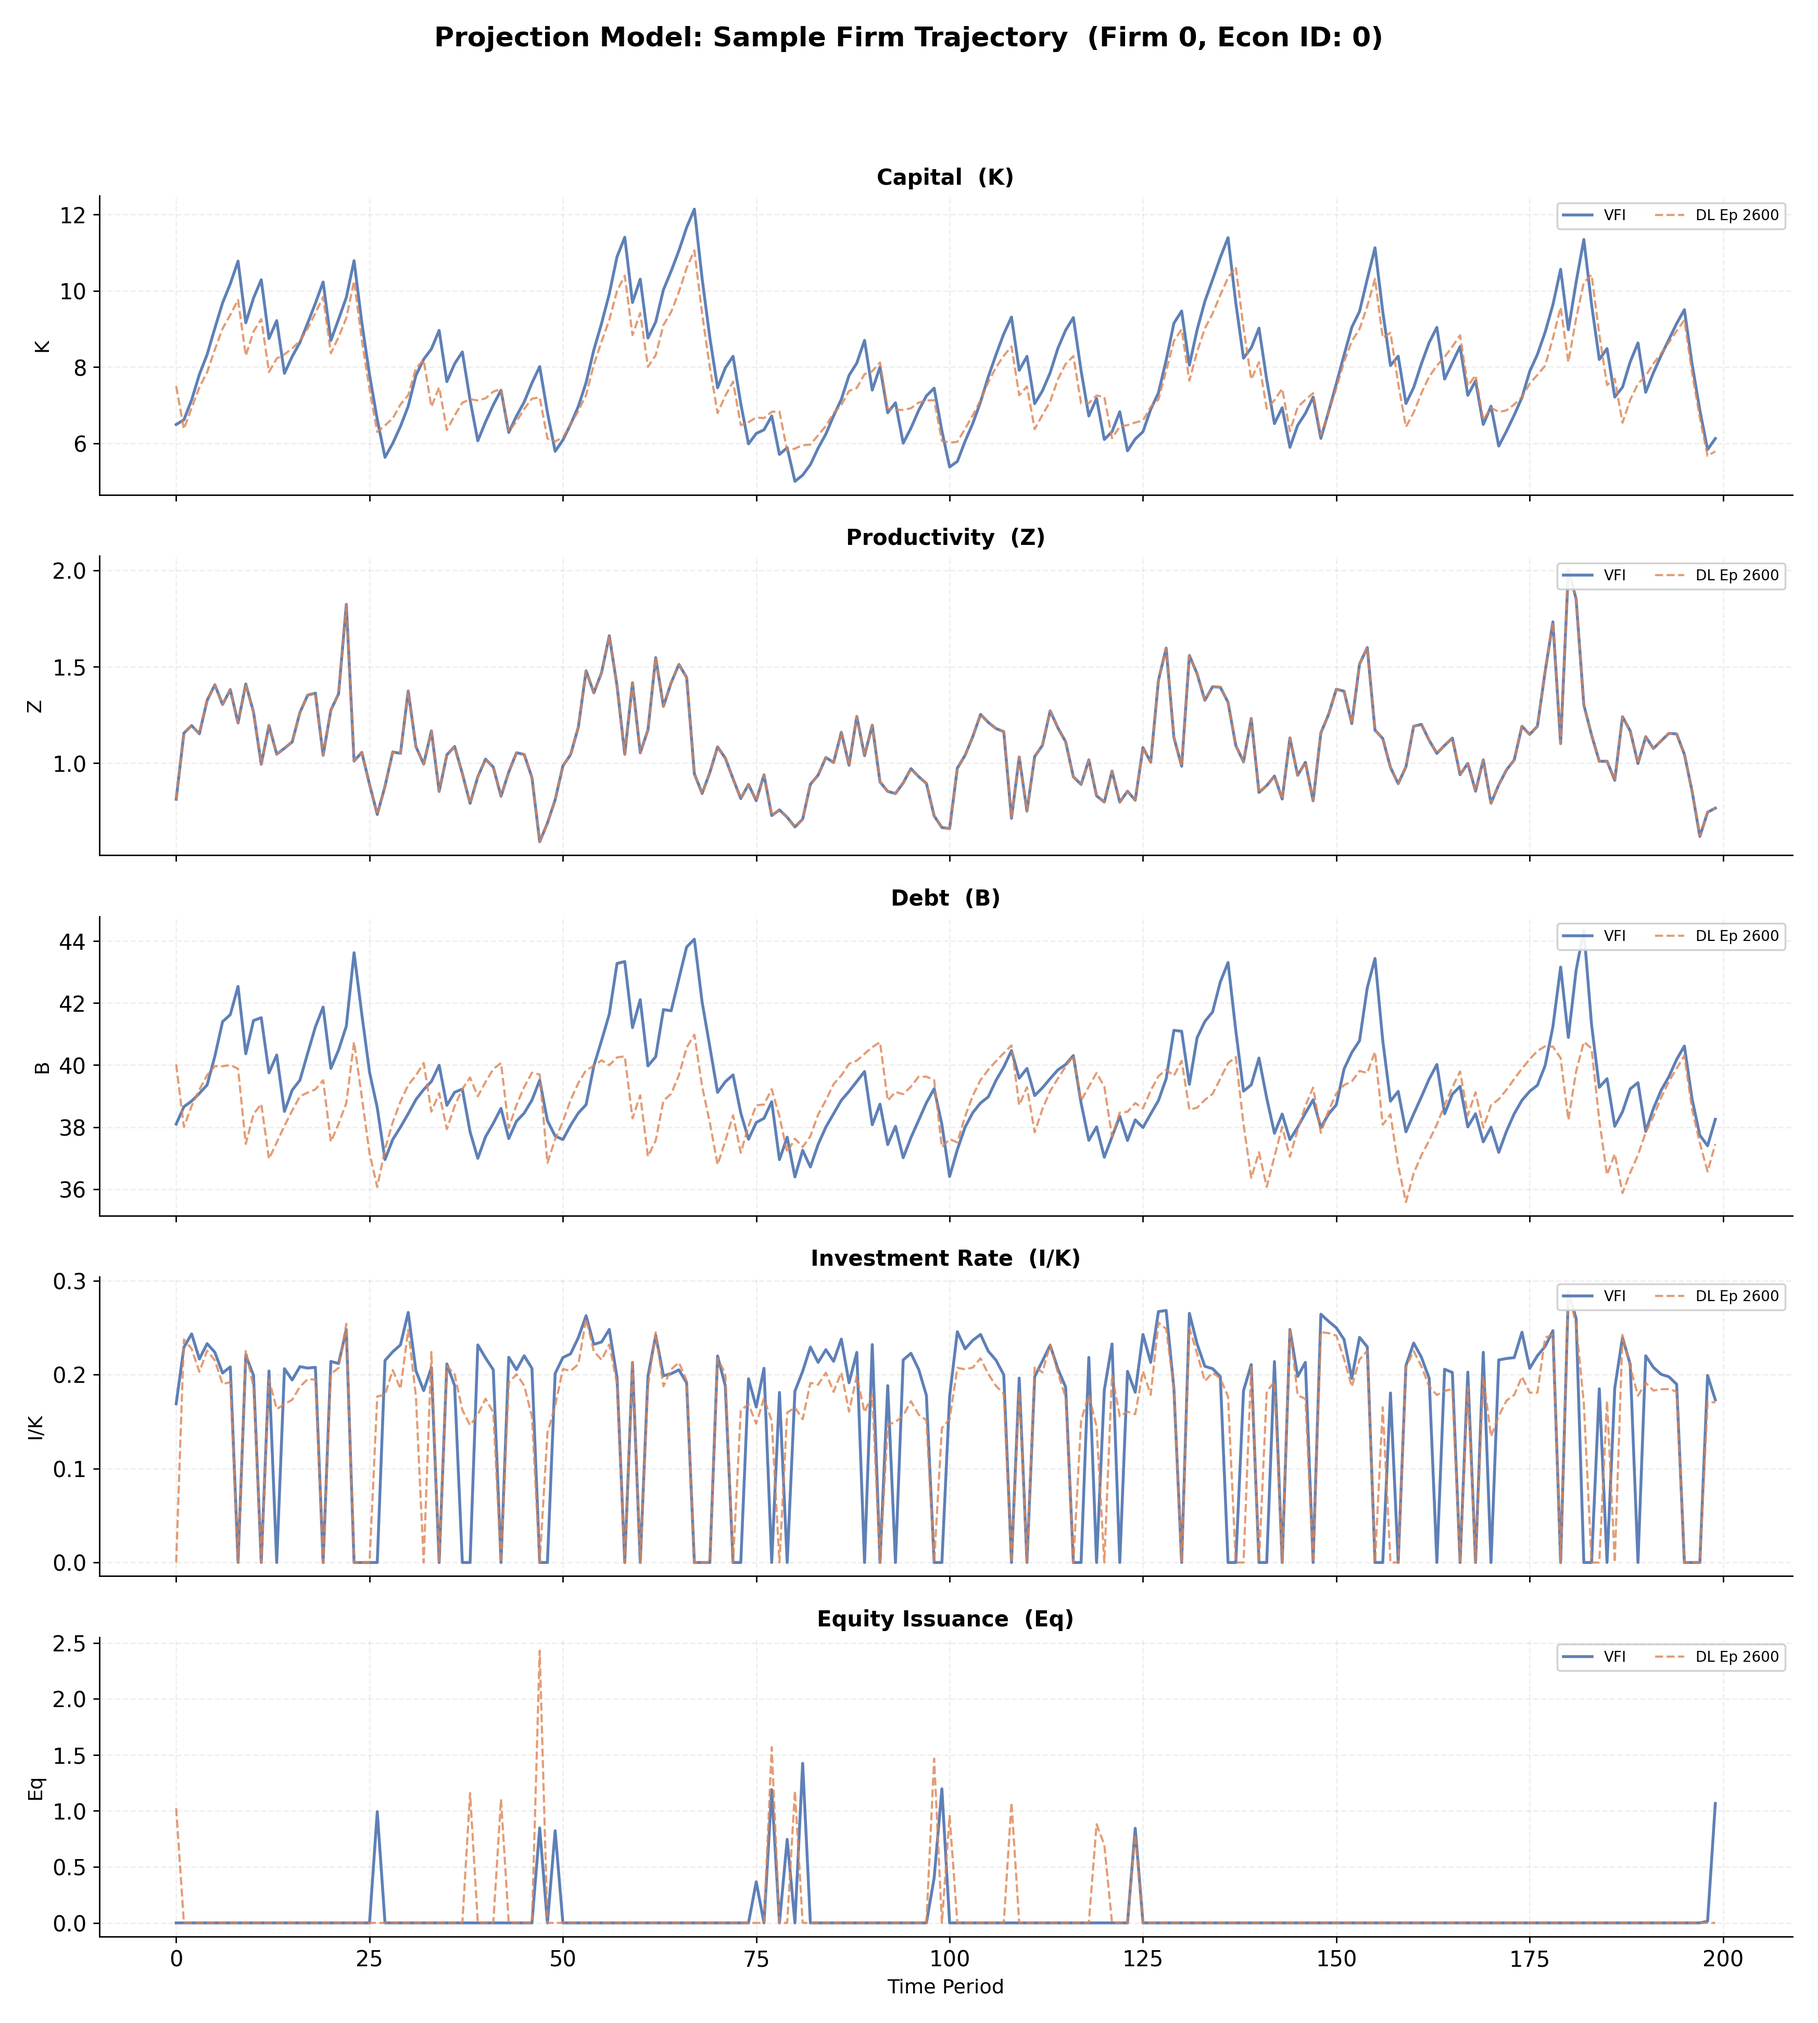
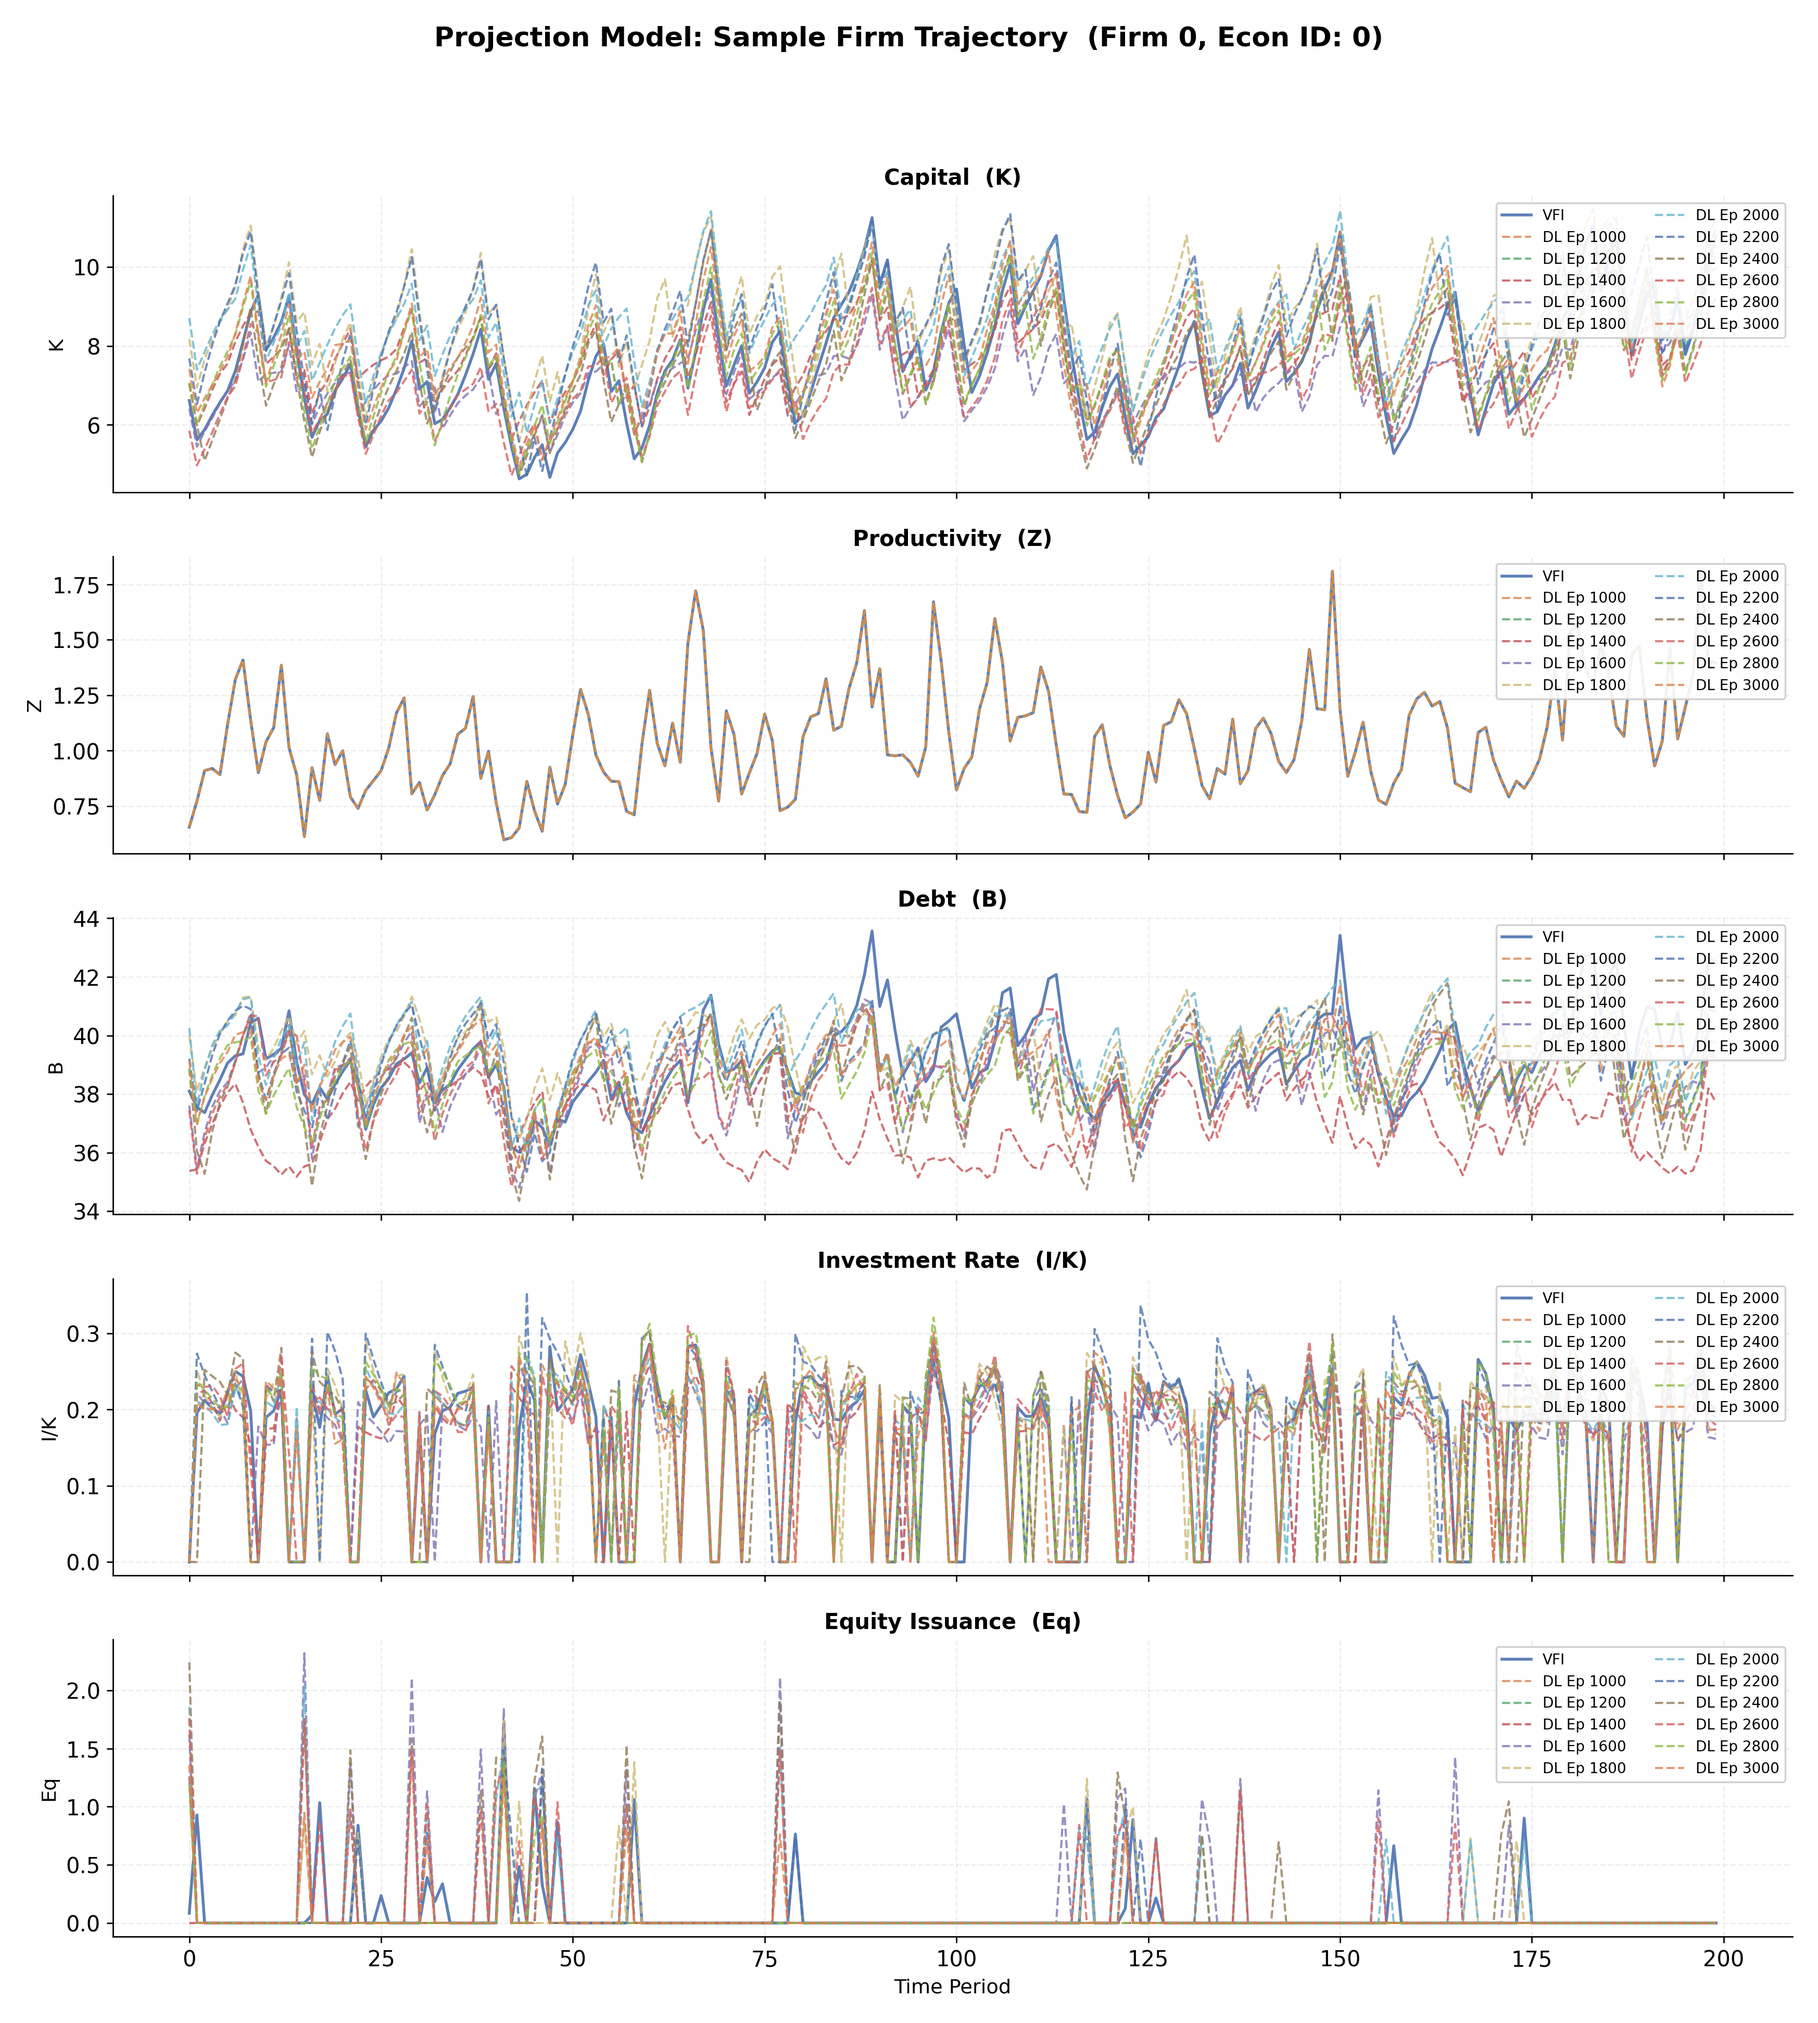
modify

diff --git a/src/econ_models/dl/risky_projection.py b/src/econ_models/dl/risky_projection.py
@@ -1026,14 +1026,14 @@ class RiskyModelDL_PROJECTION:
         (br_inv_1_tgt, br_inv_2_tgt,
          br_noinv_1_tgt, br_noinv_2_tgt,
          ) = tf.split(branch_all_4_tgt, 4, axis=0)
-        # v_inv_1_tgt = v_cont_inv_1_tgt * (1.0 - br_inv_1_tgt[:, 2:3])
-        # v_inv_2_tgt = v_cont_inv_2_tgt * (1.0 - br_inv_2_tgt[:, 2:3])
-        # v_noinv_1_tgt = v_cont_noinv_1_tgt * (1.0 - br_noinv_1_tgt[:, 2:3])
-        # v_noinv_2_tgt = v_cont_noinv_2_tgt * (1.0 - br_noinv_2_tgt[:, 2:3])
-        v_inv_1_tgt = tf.maximum(v_cont_inv_1_tgt, 0.0)
-        v_inv_2_tgt = tf.maximum(v_cont_inv_2_tgt, 0.0)
-        v_noinv_1_tgt = tf.maximum(v_cont_noinv_1_tgt, 0.0)
-        v_noinv_2_tgt = tf.maximum(v_cont_noinv_2_tgt, 0.0)
+        v_inv_1_tgt = v_cont_inv_1_tgt * (1.0 - br_inv_1_tgt[:, 2:3])
+        v_inv_2_tgt = v_cont_inv_2_tgt * (1.0 - br_inv_2_tgt[:, 2:3])
+        v_noinv_1_tgt = v_cont_noinv_1_tgt * (1.0 - br_noinv_1_tgt[:, 2:3])
+        v_noinv_2_tgt = v_cont_noinv_2_tgt * (1.0 - br_noinv_2_tgt[:, 2:3])
+        # v_inv_1_tgt = tf.maximum(v_cont_inv_1_tgt, 0.0)
+        # v_inv_2_tgt = tf.maximum(v_cont_inv_2_tgt, 0.0)
+        # v_noinv_1_tgt = tf.maximum(v_cont_noinv_1_tgt, 0.0)
+        # v_noinv_2_tgt = tf.maximum(v_cont_noinv_2_tgt, 0.0)
 
         # Dividends for label computation
         div_inv_tgt, _, _ = self._compute_dividend(

diff --git a/risky_projection_simulation.py b/risky_projection_simulation.py
@@ -65,10 +65,10 @@ from risky_common import (
 #  Constants
 # ---------------------------------------------------------------------------
 
-DL_EPOCHS: List[int] = [2600]
+DL_EPOCHS: List[int] = [3000]
 """Training epochs at which DL checkpoints are evaluated."""
 
-CHECKPOINT_DIR: str = "./checkpoints_final/risky_projection"
+CHECKPOINT_DIR: str = "./checkpoints_final/risky_projection_saved"
 """Directory containing DL projection model weight files."""
 
 BATCH_SIZE: int = 10000

diff --git a/README.md b/README.md
@@ -1,6 +1,27 @@
 # Economic Models: VFI and Deep Learning Solvers
 
+## Minipatch: Risky Projection
+
+Fully differentiable default value function handling through default policy and continuous net with unified policy update.
+
+**Training:**
+```bash
+train-dl --model risky_projection --gpu 0
+```
+
+**Simulation:**
+```bash
+python risky_projection_simulation.py --gpu 0
+```
+
+**Checkpoint download:** [risky_projection](https://drive.google.com/drive/folders/1ikVwpX8Chm2jqPF6JSRwiQeuNqQUI-up?usp=drive_link) — download the folder and place it under `checkpoints_final/`.
+
+---
+
 This repository provides a comprehensive framework for solving dynamic corporate finance models using **Value Function Iteration (VFI)** and **Deep Learning (DL)** approaches. It supports both **Basic Investment Models** and **Risky Debt Investment Models**.
+
+
+
 
 ## Implementation Overview
 
